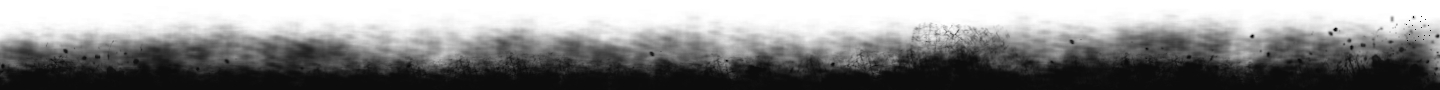
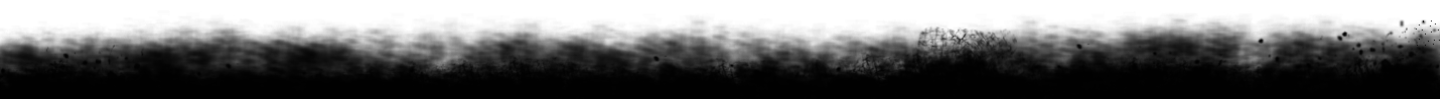
head and foot images modified to be used as general image

diff --git a/css/mainmenu.css b/css/mainmenu.css
@@ -6,7 +6,16 @@
     flex-direction: column;
 }
 
-.sub-section{
+.sub-section1{
+    opacity: 0;
+}
+
+.sub-section1.animation-active{
+    opacity: 1;
+    transition: opacity 1.5s ease-in-out;
+}
+
+.sub-section2{
     margin: 3em auto;
     width: 80%;
     display: flex;
@@ -38,8 +47,7 @@
     perspective: 200px;
     perspective-origin: center;
     transition: box-shadow 0.5s ease-in-out;
-    animation: zoomin 0.4s ease-in-out backwards;
-    animation-delay: 0.6s;
+    transform: scale(0);
 }
 
 @keyframes zoomin{
@@ -82,13 +90,21 @@
 .logo-sec svg{
     width: 18%;
     z-index: 15;
-    animation: zoomout 0.6s ease-in-out backwards;
-    animation-delay: 0.4s;
+    transform: scale(4);
+}
+
+.sub-section2.animation-active .logo-sec svg{
+    animation: zoomout 0.6s cubic-bezier(0.43, -0.86, 0.58, 1) forwards;
+}
+
+.sub-section2.animation-active .sec-row .card{
+    animation: zoomin 0.3s ease-out forwards;
+    animation-delay: 0.25s;
 }
 
 @keyframes zoomout{
     from{
-        transform: scale(6);
+        transform: scale(4);
     }
     to{
         transform: scale(1);
@@ -207,5 +223,6 @@
 }
 
 .list-item{
+    display: flex;
     margin: 0.3em;
 }

diff --git a/js/scroll.js b/js/scroll.js
@@ -1,0 +1,26 @@
+function createObserver(thresholdValue = 1.0){
+
+    let observer;
+
+    targets = document.getElementsByClassName("scroll-animated");
+
+    let options = {
+        root: null,
+        rootMargin: '0px',
+        threshold: thresholdValue
+    }
+
+    observer = new IntersectionObserver(handleObserver, options);
+
+    Array.from(targets).forEach((target) => {
+        observer.observe(target);
+    });
+}
+
+function handleObserver(entries){
+    entries.forEach((entry) => {
+        if(entry.isIntersecting){
+            entry.target.classList.add("animation-active");
+        }
+    })
+}

diff --git a/css/socialengg.css b/css/socialengg.css
@@ -1,0 +1,7 @@
+.sesection{
+    background: url('../images/ssimg.jpg');
+    background-repeat: no-repeat;
+    background-position: center;
+    background-size: cover;
+    min-height: 100vh;
+}

diff --git a/css/styl.css b/css/styl.css
@@ -18,7 +18,7 @@ html,body {
 
 .navheader, .navfooter{
     width: 100%;
-    background-color:#0c0c0c;
+    background-color:#050505;
     color:white;
     z-index: 5;
 }

diff --git a/trainingtemplate.php b/trainingtemplate.php
@@ -1,5 +1,6 @@
 <!DOCTYPE html>
 <html lang="en">
+
 <head>
     <meta charset="UTF-8">
     <meta name="viewport" content="width=device-width, initial-scale=1.0">
@@ -7,29 +8,30 @@
     <link rel="stylesheet" href="./css/mainmenu.css">
     <title>Services</title>
 </head>
+
 <body>
     <?php include_once "shared/header.php" ?>
 
-    <div class="pichead"></div>
-
     <div class="content">
         <div class="section">
-            <div class="section-head">
-                <h1 class="section-head-text">
-                    Battle Harden your network with no threat to your data
-                </h1>
+            <div class="sub-section1">
+                <div class="section-head">
+                    <h1 class="section-head-text">
+                        Battle Harden your network with no threat to your data
+                    </h1>
+                </div>
+                <div class="section-para">
+                    <p class="section-para-text">
+                        Our experts will use extensive cutting edge methods to launch a
+                        full scale cyber attack . A complete analysis of the network security
+                        from an outsider’s Perspective to know the flaws and performance
+                        of the security protocol and the people faced with real world
+                        threats.We will provide you with the tactics to cover the security holes we
+                        discovered and exploited.
+                    </p>
+                </div>
             </div>
-            <div class="section-para">
-                <p class="section-para-text">
-                Our experts will use extensive cutting edge methods to launch a
-                full scale cyber attack . A complete analysis of the network security
-                from an outsider’s Perspective to know the flaws and performance
-                of the security protocol and the people faced with real world
-                threats.We will provide you with the tactics to cover the security holes we
-                discovered and exploited.
-                </p>
-            </div>
-            <div class="sub-section">
+            <div class="sub-section2 scroll-animated">
                 <div class="sec-row">
                     <a href="/" class="card-link">
                         <div class="card" aria-label="Red Teaming">
@@ -83,7 +85,7 @@
                                 </ul>
                             </div>
                             <div class="card-action"><span class="card-btn btn-action">Audit Now</span></div>
-                            </div>
+                        </div>
                     </a>
                 </div>
                 <div class="sec-row logo-sec">
@@ -148,7 +150,12 @@
             </div>
         </div>
     </div>
-    <div class="picfoot"></div>
+
     <?php include_once "shared/footer.php" ?>
 </body>
+
+<script src="./js/scroll.js"></script>
+<script>
+    createObserver(0.6);
+</script>
 </html>

diff --git a/services.php b/services.php
@@ -10,26 +10,26 @@
 <body>
     <?php include_once "shared/header.php" ?>
 
-    <div class="pichead"></div>
-
     <div class="content">
         <div class="section">
-            <div class="section-head">
-                <h1 class="section-head-text">
-                    Battle Harden your network with no threat to your data
-                </h1>
+            <div class="sub-section1 scroll-animated">
+                <div class="section-head">
+                    <h1 class="section-head-text">
+                        Battle Harden your network with no threat to your data
+                    </h1>
+                </div>
+                <div class="section-para">
+                    <p class="section-para-text">
+                    Our experts will use extensive cutting edge methods to launch a
+                    full scale cyber attack . A complete analysis of the network security
+                    from an outsider’s Perspective to know the flaws and performance
+                    of the security protocol and the people faced with real world
+                    threats.We will provide you with the tactics to cover the security holes we
+                    discovered and exploited.
+                    </p>
+                </div>
             </div>
-            <div class="section-para">
-                <p class="section-para-text">
-                Our experts will use extensive cutting edge methods to launch a
-                full scale cyber attack . A complete analysis of the network security
-                from an outsider’s Perspective to know the flaws and performance
-                of the security protocol and the people faced with real world
-                threats.We will provide you with the tactics to cover the security holes we
-                discovered and exploited.
-                </p>
-            </div>
-            <div class="sub-section">
+            <div class="sub-section2 scroll-animated">
                 <div class="sec-row">
                     <a href="/" class="card-link">
                         <div class="card" aria-label="Red Teaming">
@@ -148,7 +148,13 @@
             </div>
         </div>
     </div>
-    <div class="picfoot"></div>
+
     <?php include_once "shared/footer.php" ?>
 </body>
+
+<script src="./js/scroll.js"></script>
+<script>
+    createObserver(0.6);
+</script>
+
 </html>

diff --git a/trainings.php b/trainings.php
@@ -9,25 +9,27 @@
 </head>
 <body>
     <?php include_once "shared/header.php" ?>
-    <div class="pichead"></div>
+    
     <div class="content">
         <div class="section">
-            <div class="section-head">
-                <h1 class="section-head-text">
-                    Battle Harden your network with no threat to your data
-                </h1>
+            <div class="sub-section1 scroll-animated">
+                <div class="section-head">
+                    <h1 class="section-head-text">
+                        Battle Harden your network with no threat to your data
+                    </h1>
+                </div>
+                <div class="section-para">
+                    <p class="section-para-text">
+                    Our experts will use extensive cutting edge methods to launch a
+                    full scale cyber attack . A complete analysis of the network security
+                    from an outsider’s Perspective to know the flaws and performance
+                    of the security protocol and the people faced with real world
+                    threats.We will provide you with the tactics to cover the security holes we
+                    discovered and exploited.
+                    </p>
+                </div>
             </div>
-            <div class="section-para">
-                <p class="section-para-text">
-                Our experts will use extensive cutting edge methods to launch a
-                full scale cyber attack . A complete analysis of the network security
-                from an outsider’s Perspective to know the flaws and performance
-                of the security protocol and the people faced with real world
-                threats.We will provide you with the tactics to cover the security holes we
-                discovered and exploited.
-                </p>
-            </div>
-            <div class="sub-section">
+            <div class="sub-section2 scroll-animated">
                 <div class="sec-row">
                     <a href="/" class="card-link">
                         <div class="card">
@@ -122,7 +124,12 @@
             </div>
         </div>
     </div>
-    <div class="picfoot"></div>
     <?php include_once "shared/footer.php" ?>
 </body>
+
+<script src="./js/scroll.js"></script>
+<script>
+    createObserver(0.6);
+</script>
+
 </html>

diff --git a/socialEngg.php b/socialEngg.php
@@ -1,0 +1,26 @@
+<!DOCTYPE html>
+<html lang="en">
+
+<head>
+    <meta charset="UTF-8">
+    <meta name="viewport" content="width=device-width, initial-scale=1.0">
+    <link rel="stylesheet" href="./css/styl.css">
+    <link rel="stylesheet" href="./css/socialengg.css">
+    <title>Services</title>
+</head>
+
+<body>
+    <?php include_once "shared/header.php" ?>
+
+    <div class="sesection">
+
+    </div>
+
+    <?php include_once "shared/footer.php" ?>
+</body>
+
+<script src="./js/scroll.js"></script>
+<script>
+    createObserver(0.6);
+</script>
+</html>

diff --git a/shared/funcs.php b/shared/funcs.php
@@ -15,8 +15,8 @@
                 return "Contact to connect";
             case "trainings":
                 return "Trainings";
-            case "contactus":
-                return "Contact to connect";
+            case "socialengg":
+                return "Social Engineering";
             case "contactus":
                 return "Contact to connect";
         }

diff --git a/shared/footer.php b/shared/footer.php
@@ -1,3 +1,4 @@
+<div class="picfoot"></div>
 <footer class="navfooter">
     <div class="content">
 

diff --git a/shared/header.php b/shared/header.php
@@ -30,3 +30,4 @@
         </div>
     </div>
 </header>
+<div class="pichead"></div>
